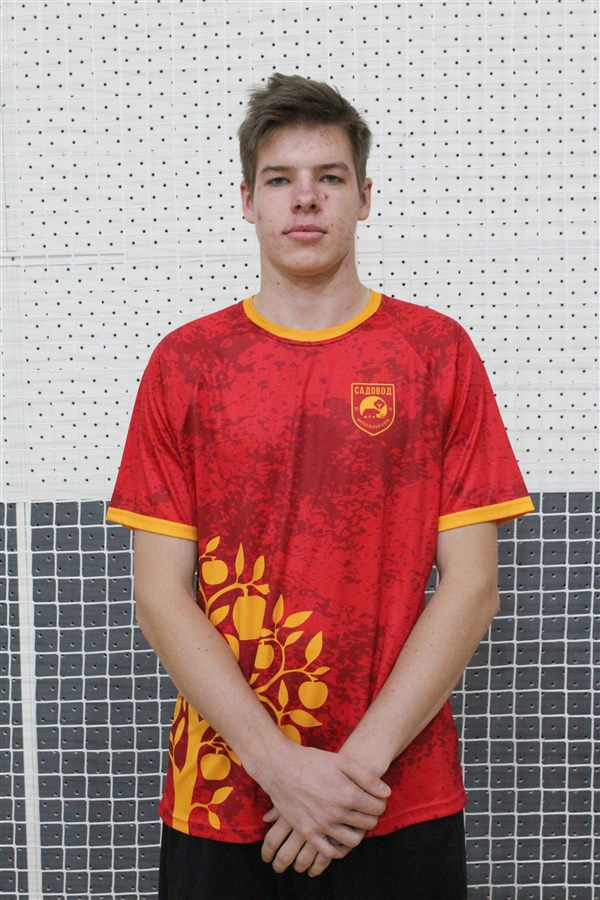
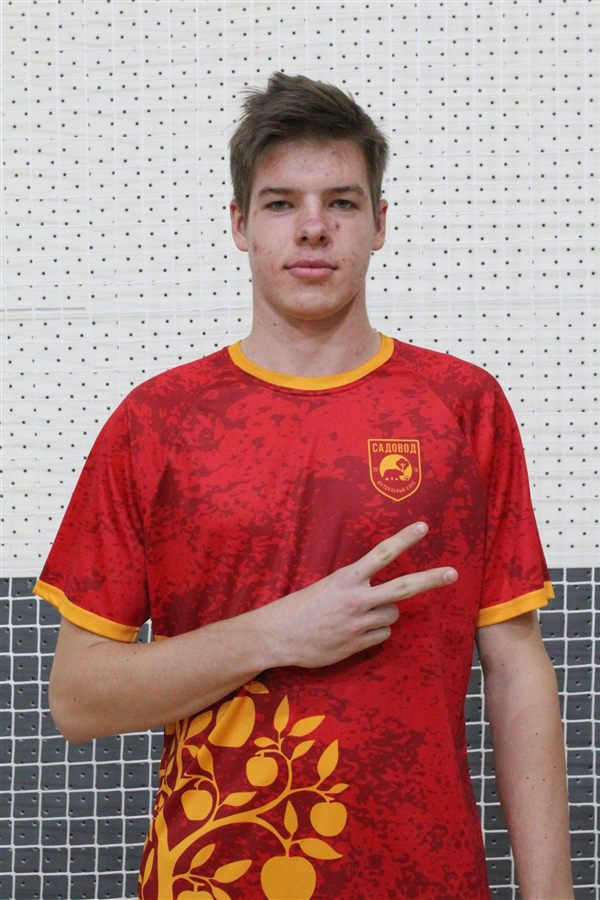
Новые фото: Обороча, Фалькенберг, Янгулов

diff --git a/data.js b/data.js
@@ -104,11 +104,11 @@ const PLAYERS = [
   { num: 3   , name: "Андрей Супрун",          pos: "ВРТ", photo: "img/players/suprun.jpg" },
   { num: 42  , name: "Матвей Маклаков",        pos: "НАП", photo: "img/players/maklakov.jpg" },
   { num: 25  , name: "Лев Мормель",            pos: "НАП", photo: "img/players/mormel.jpg" },
-  { num: 97  , name: "Иван Обороча",           pos: "ЗАЩ", photo: "img/players/oborocha.jpg" },
-  { num: 9   , name: "Максим Янгулов",         pos: "НАП", photo: "img/players/yangulov.jpg" },
+  { num: 97  , name: "Иван Обороча",           pos: "ЗАЩ", photo: "img/players/oborocha.jpg?v=2" },
+  { num: 9   , name: "Максим Янгулов",         pos: "НАП", photo: "img/players/yangulov.jpg?v=2" },
   { num: 4   , name: "Степан Мельников",       pos: "НАП", photo: "img/players/melnikov.jpg" },
   { num: 14  , name: "Евгений Новиков",        pos: "НАП", photo: "img/players/novikov.jpg" },
-  { num: 8   , name: "Михаил Фалькенберг",     pos: "ЗАЩ", photo: "img/players/falkinberg.jpg" },
+  { num: 8   , name: "Михаил Фалькенберг",     pos: "ЗАЩ", photo: "img/players/falkinberg.jpg?v=2" },
   { num: 55  , name: "Артём Лагерев",          pos: "ВРТ", photo: "img/players/lagerev.jpg" },
   { num: 10  , name: "Александр Дьяченко",     pos: "НАП", photo: "img/players/dyachenko.jpg" },
   { num: 19  , name: "Никита Трифанов",        pos: "НАП", photo: "img/players/trifanov.jpg" },
